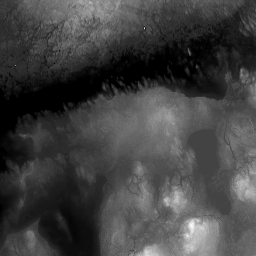
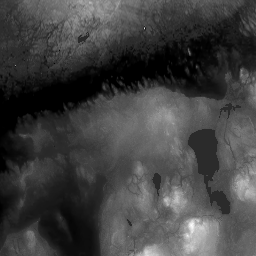
Carve real lakes into the DEM worlds for recognisable land
Without inland water, the real-map worlds were hard to read (Estonia's whole
eastern border IS Lake Peipus, but it rendered as green land). The heightmap
builder now fetches Natural Earth lake polygons overlapping the bbox and
carves those pixels just below sea level, so real lakes render as water:
- Estonia gains Lake Peipus and Võrtsjärv,
- Britain its lochs and lakes,
- France its alpine lakes.

Rivers were already traced on these DEMs and now read alongside the lakes.
Routes only cross water where the story crosses it too (Kalevipoeg hauls
timber and campaigns to Pihkva across Peipus).

Estonia/France/Britain DEMs rebuilt with the `lakes` preset flag. Full suite
green (17/17).

Claude-Session: https://claude.ai/code/session_012xHrYLbmC7QAWTN7iQqSjY

diff --git a/README.md b/README.md
@@ -97,7 +97,7 @@ can paste straight into your story.
 | `terrain.heightScale` | Vertical exaggeration of the 3D mesh. |
 | `terrain.biomes[]` | Elevation → color bands (low to high). |
 | `terrain.rivers` | Number of rivers traced downhill from highlands to sea (`riverColor` to tint — e.g. lava-orange). |
-| `terrain.heightmap` | Optional grayscale image URL — real elevation (DEM) instead of noise. **Kalevipoeg** uses a real Estonia, **The d'Artagnan Romances** the real France + England, **Harry Potter** the real Britain, and **The Extraordinary Voyages** the real whole Earth. Build presets with `node scripts/build-heightmap.mjs [estonia\|france\|britain\|world]`; place markers at real `lon/lat` mapped into the DEM's box. |
+| `terrain.heightmap` | Optional grayscale image URL — real elevation (DEM) instead of noise. **Kalevipoeg** uses a real Estonia, **The d'Artagnan Romances** the real France + England, **Harry Potter** the real Britain, and **The Extraordinary Voyages** the real whole Earth. Build presets with `node scripts/build-heightmap.mjs [estonia\|france\|britain\|world]` (the real-Britain/France/Estonia presets also carve real lake bodies from Natural Earth data so inland water reads); place markers at real `lon/lat` mapped into the DEM's box. |
 | `terrain.aspect` | World width ÷ depth (default 1 = square). Use >1 for a map wider than it is tall — **The Extraordinary Voyages** sets `360/140` so the equirectangular Earth keeps real proportions instead of stretching into the square. |
 | `markers[]` | Labeled points of interest (`capital`, `city`, `port`, `ruin`, …). |
 | `routes[]` | Journeys/roads drawn draped over the terrain. |
